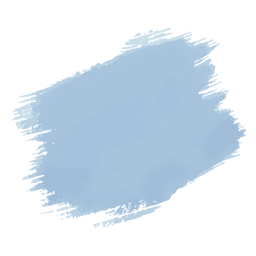
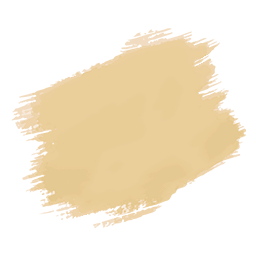
changed background rarity colours; further reduced level clear waiting times

diff --git a/backend/state.py b/backend/state.py
@@ -121,13 +121,15 @@ class StateProcess(Process):
     def wait_level_cleared(self, num_nodes):
         time.sleep(1) # 1 sec to clear out until new level screen
         pyautogui.click(button=self.primary_mouse)
+
+        # dont think this is necessary, all this just for one check at p0 seems like a waste of time in the long run
         # lvl 2 has 4 nodes, lvl 5 has 5 nodes, lvl 10 has 9 nodes
-        if num_nodes == 4 or 5 or 9:
-            time.sleep(0.5) # in case of extra information on early level (e.g. lvl 2, 5, 10)
-            pyautogui.click(button=self.primary_mouse)
-            if num_nodes == 9:
-                time.sleep(0.5) # in case of yet more extra information on early level (e.g. lvl 10)
-                pyautogui.click(button=self.primary_mouse)
+        # if num_nodes == 4 or 5 or 9:
+        #     time.sleep(0.5) # in case of extra information on early level (e.g. lvl 2, 5, 10)
+        #     pyautogui.click(button=self.primary_mouse)
+        #     if num_nodes == 9:
+        #         time.sleep(0.5) # in case of yet more extra information on early level (e.g. lvl 10)
+        #         pyautogui.click(button=self.primary_mouse)
         time.sleep(2) # 2 secs to generate
 
     def click_node(self):
@@ -161,13 +163,14 @@ class StateProcess(Process):
         time.sleep(2 + num_nodes / 13)
 
         pyautogui.click(button=self.primary_mouse)
+        # dont think this is necessary, all this just for one check at p0 seems like a waste of time in the long run
         # lvl 2 has 4 nodes, lvl 5 has 5 nodes, lvl 10 has 9 nodes
-        if num_nodes == 4 or 5 or 9:
-            time.sleep(0.5) # in case of extra information on early level (e.g. lvl 2, 5, 10)
-            pyautogui.click(button=self.primary_mouse)
-            if num_nodes == 9:
-                time.sleep(0.5) # in case of yet more extra information on early level (e.g. lvl 10)
-                pyautogui.click(button=self.primary_mouse)
+        # if num_nodes == 4 or 5 or 9:
+        #     time.sleep(0.5) # in case of extra information on early level (e.g. lvl 2, 5, 10)
+        #     pyautogui.click(button=self.primary_mouse)
+        #     if num_nodes == 9:
+        #         time.sleep(0.5) # in case of yet more extra information on early level (e.g. lvl 10)
+        #         pyautogui.click(button=self.primary_mouse)
         pyautogui.moveTo(0, 0, _pause=False)
         time.sleep(2) # 2 secs to generate
 

diff --git a/backend/mergedbase.py b/backend/mergedbase.py
@@ -42,7 +42,7 @@ class MergedBase:
 
         colors = {
             "common": (60, 60, 60),
-            "uncommon": (100, 100, 100),
+            "uncommon": (75, 75, 75),
             "rare": (75, 75, 75),
             "very_rare": (45, 45, 45),
             "ultra_rare": (40, 40, 40),
